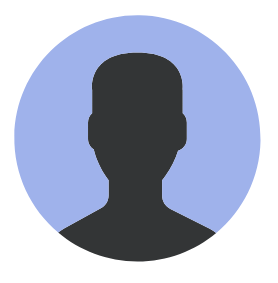
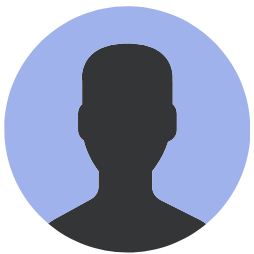
add placeholder and thumbnail image

Changed region(s): [[0.0, 0.0, 0.9921, 1.0]]

diff --git a/styles.css b/styles.css
@@ -207,7 +207,7 @@ body {
   background-color: transparent;
   border-style: none;
   text-decoration: underline;
-  color: #ADADFF;
+  color: black;
   font-weight: 700;
   font-size: medium;
   margin-top: 20px;
@@ -229,7 +229,7 @@ h4 {
 
 #user_profile {
   display: flex;
-  flex-flow: column wrap;
+  flex-flow: column;
   background-image: linear-gradient(to bottom right, var(--primary-color), var(--secondary-color));
   height: 100%;
   width: 100%;
@@ -238,18 +238,21 @@ h4 {
 #profile_info {
   flex: 1;
   display: flex;
-  background-color: brown;
   flex-flow: row wrap;
 }
 
 #user_img_container {
   flex: 1;
-  background-color: green;
+  display: flex;
+  justify-content: end;
 }
 
 #user_img {
   width: 100%;
   height: 100%;
+  max-width: 400px;
+  max-height: 400px;
+
 }
 
 #profile_username {
@@ -269,15 +272,13 @@ h4 {
   flex: 2;
   display: flex;
   flex-flow: column;
-  background-color: green;
 }
 
 #current_profile_info {
   flex: 1;
   display: flex;
   flex-flow: column;
-  align-items: center;
-  background-color: greenyellow;
+  align-items: start;
 }
 
 #change_info_section {
@@ -285,17 +286,16 @@ h4 {
   display: flex;
   flex-flow: column;
   justify-content: center;
-  align-items: center;
+  align-items: start;
   width: 100%;
-  background-color: blue;
+  height: 100%;
 }
 
-#logout_section {
-  flex: 1;
+#logout_button {
+  position: relative;
   display: flex;
-  flex-flow: column;
-  justify-content: start;
-  align-items: center;
+  top: 5px;
+  right: 20px;
 }
 
 .profile_statusinfo {
@@ -351,8 +351,19 @@ h4 {
   margin: 5px;
 }
 
+.custom_button {
+  width: 50%;
+  border-radius: 25px;
+  color: white;
+  background-image: linear-gradient(to bottom right, var(--button-secondary-color), var(--button-primary-color));
+  border-style: none;
+  height: 100%;
+  max-height: 50px;
+  margin: 5px;
+}
 
-#change_profile_info_form input {
+
+.change_profile_info_form_input {
 
   background-color: white;
   border-style: none;
@@ -366,7 +377,7 @@ h4 {
 
 }
 
-#change_profile_info_form input:focus {
+.change_profile_info_form_input:focus {
 
   border-style: solid;
   border-width: 1px;
@@ -384,6 +395,12 @@ input:focus,textarea:focus {
   flex-flow: row;
 }
 
+#profile_pic_input {
+  color: white;
+  display: flex;
+
+}
+
 #profile_pic_form {
   width: 100%;
   display: flex;
@@ -396,8 +413,28 @@ input:focus,textarea:focus {
 
 
 
+/** Custom classes **/
 
+.custom_file_input {
+  border-radius: 25px;
+  margin: 5px;
+  padding: 10px 0px;
+  width: 100%;
+  display: flex;
+  color: white;
+  justify-content: center;
+  text-align: center;
+  background-image: linear-gradient(to bottom right, var(--button-secondary-color), var(--button-primary-color));
+  outline: none;
+}
+.custom_file_input:active {
+  background: blue;
+}
 
+/** Disabling the default file input button **/
+::file-selector-button {
+  display: none;
+}
 
 
 /** Tablet screen break points **/
@@ -450,7 +487,26 @@ input:focus,textarea:focus {
     margin-bottom: 10px;
   }
 
+  /** Profile section **/
+  #profile_username {
+    align-items: start;
+    padding-left: 50px;
+  }
+  
+  #current_profile_info {
+    align-items: center;
+    flex-flow: row;
+  }
 
+  #change_profile_info_form input {
+    max-height: 60px;
+  }
+
+  #change_profile_info_form {
+    align-items: start;
+    width: 50%;
+    justify-content: start;
+  }
  
 
 }

diff --git a/index.html b/index.html
@@ -94,7 +94,7 @@
 			<div id="user_profile" class="none">
 			
 				<div id="profile_info">
-		
+
 					<div id="user_img_container"> 
 						<img src="" id="user_img" alt="Profile picture">
 					</div>
@@ -104,20 +104,23 @@
 						<h3 id="username">Fname Lname</h3>
 					</div>
 			
+					<button id="logout_button" class="borderless_button">
+						Logout
+					</button>
 
 				</div>
 
 				<div id="user_info" class="display">
 
 					<div id="current_profile_info" class="display">
-						
+
 						<div id="profile_info_section">
 							<h3 id="user_email" class="user_profile_info"></h3>
 							<h3 id="user_fname" class="user_profile_info"></h3>
 							<h3 id="user_lname" class="user_profile_info"></h3>
 						</div>
-						<div id="change_info_section">
-							<button onclick="displayChangeProfileInfoView()">
+						<div id="change_info_section" >
+							<button onclick="displayChangeProfileInfoView()" class="custom_button">
 								Change profile info
 							</button>
 						</div>
@@ -125,9 +128,7 @@
 					</div>
 				
 					<div id="logout_section">
-						<button id="logout_button" class="borderless_button">
-							Logout
-						</button>
+					
 					</div>
 
 				</div>
@@ -137,13 +138,16 @@
 			
 					<form id="change_profile_info_form">
 						<h3 style="font-weight: 700; margin: 5px;">Change profile info</h3>
-						<input type="file" name="profile_pic" placeholder="Add an image" accept="image/*" id="profile_pic_input">
-						<input type="email" value="email" placeholder="Email" id="change_email_input" name="email">
-						<input type="text" placeholder="First name" id="change_fname_input" name="first_name">
-						<input type="text" placeholder="Last name" id="change_lname_input" name="last_name">
+						<div class="custom_file_input">
+							<input type="file" name="profile_pic" placeholder="Add an image" accept="image/*" id="profile_pic_input">
+						</div>
+						
+						<input type="email" value="email" placeholder="Email" id="change_email_input" name="email" class="change_profile_info_form_input">
+						<input type="text" placeholder="First name" id="change_fname_input" name="first_name" class="change_profile_info_form_input">
+						<input type="text" placeholder="Last name" id="change_lname_input" name="last_name" class="change_profile_info_form_input">
 						<h5>*Changes require the current password</h5>
-						<input type="password" placeholder="old password" name="old_passwd" id="old_passwd_input" required>
-						<input type="password" placeholder="new password" name="passwd" id="new_passwd_input">
+						<input type="password" placeholder="old password" name="old_passwd" id="old_passwd_input" class="change_profile_info_form_input" required>
+						<input type="password" placeholder="new password" name="passwd" id="new_passwd_input" class="change_profile_info_form_input">
 						<div id="change_profile_buttons">
 							<button id="changes_back_button" type="button" onclick="displayProfileView()">
 								Back
